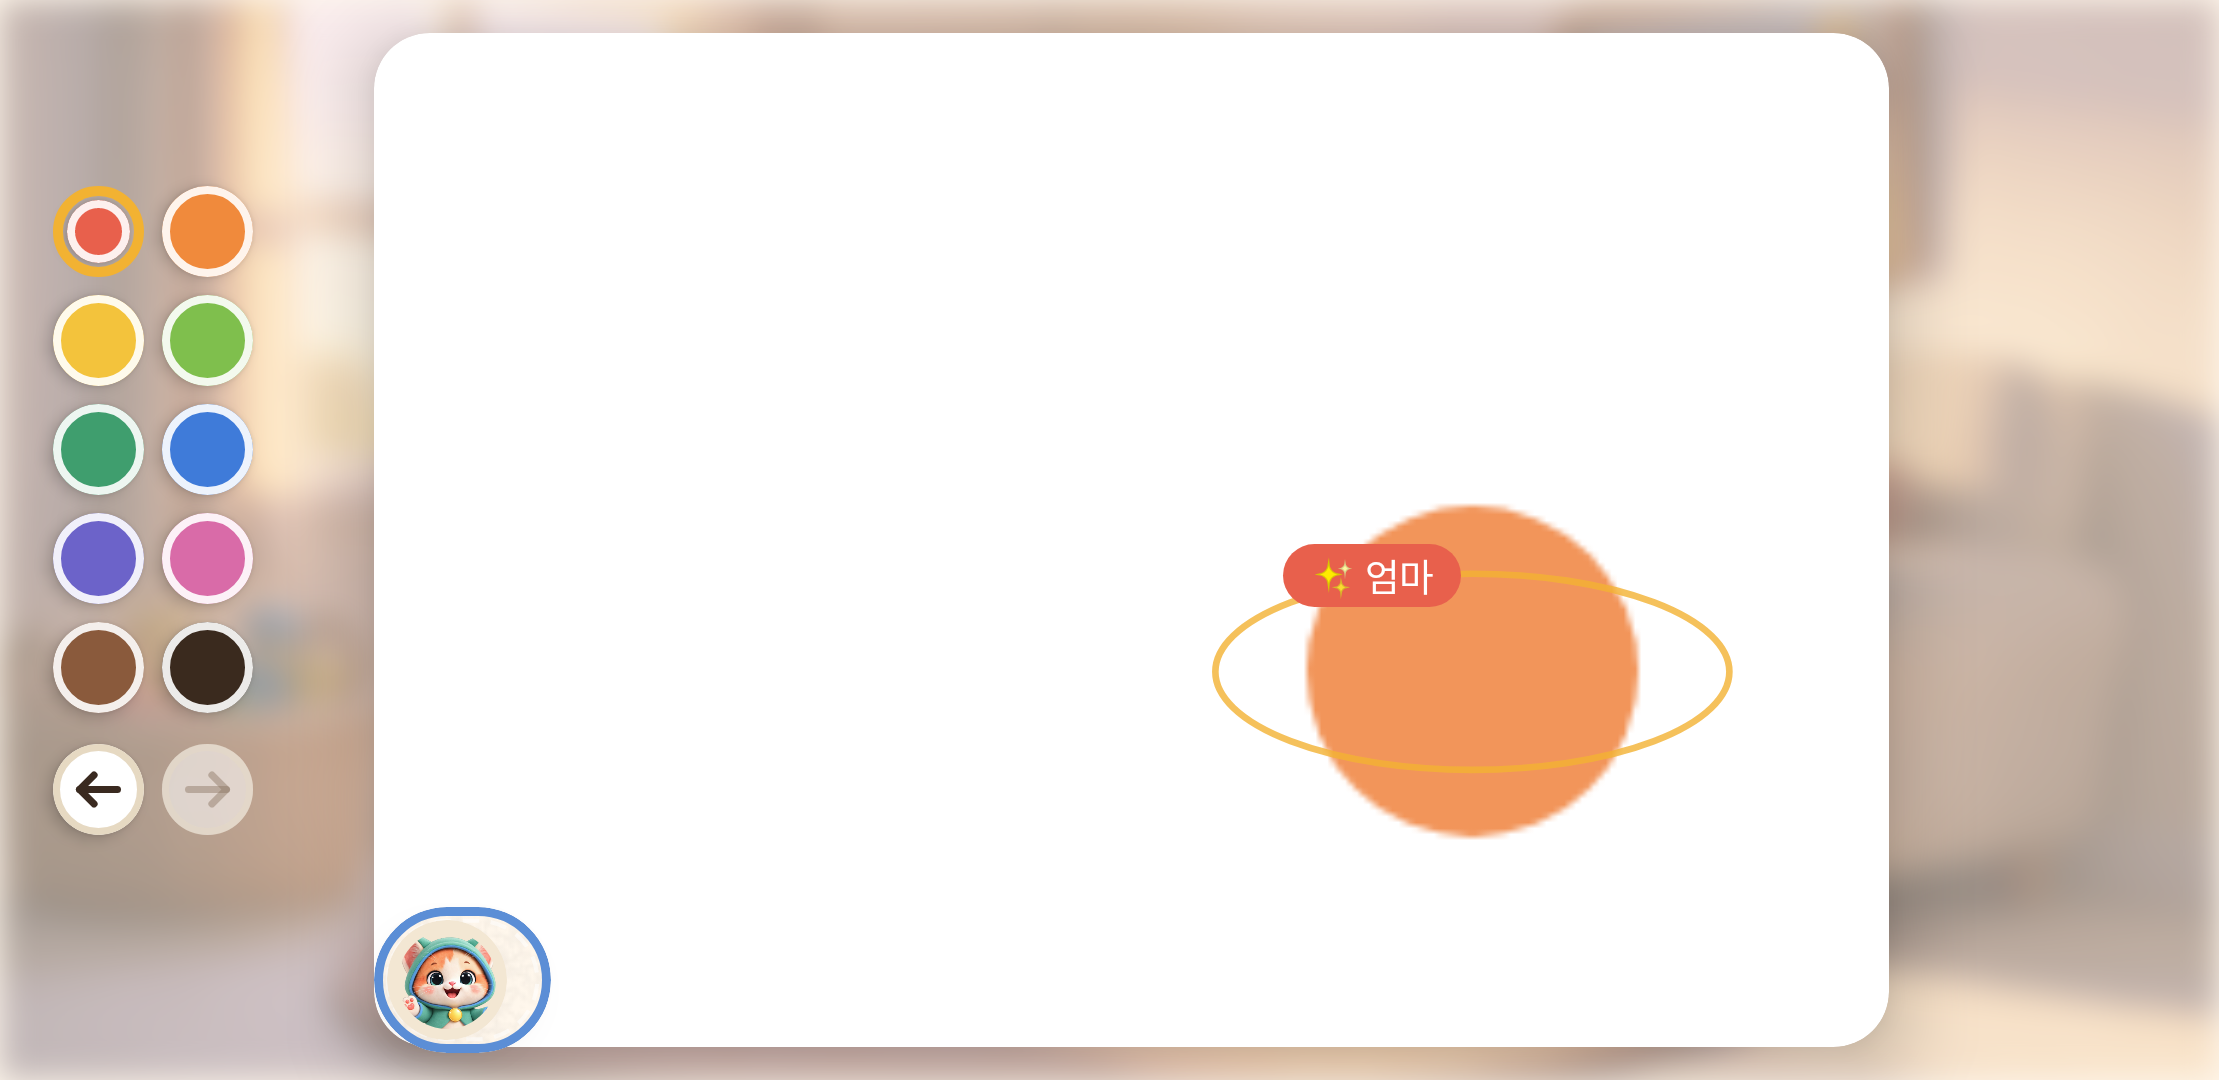
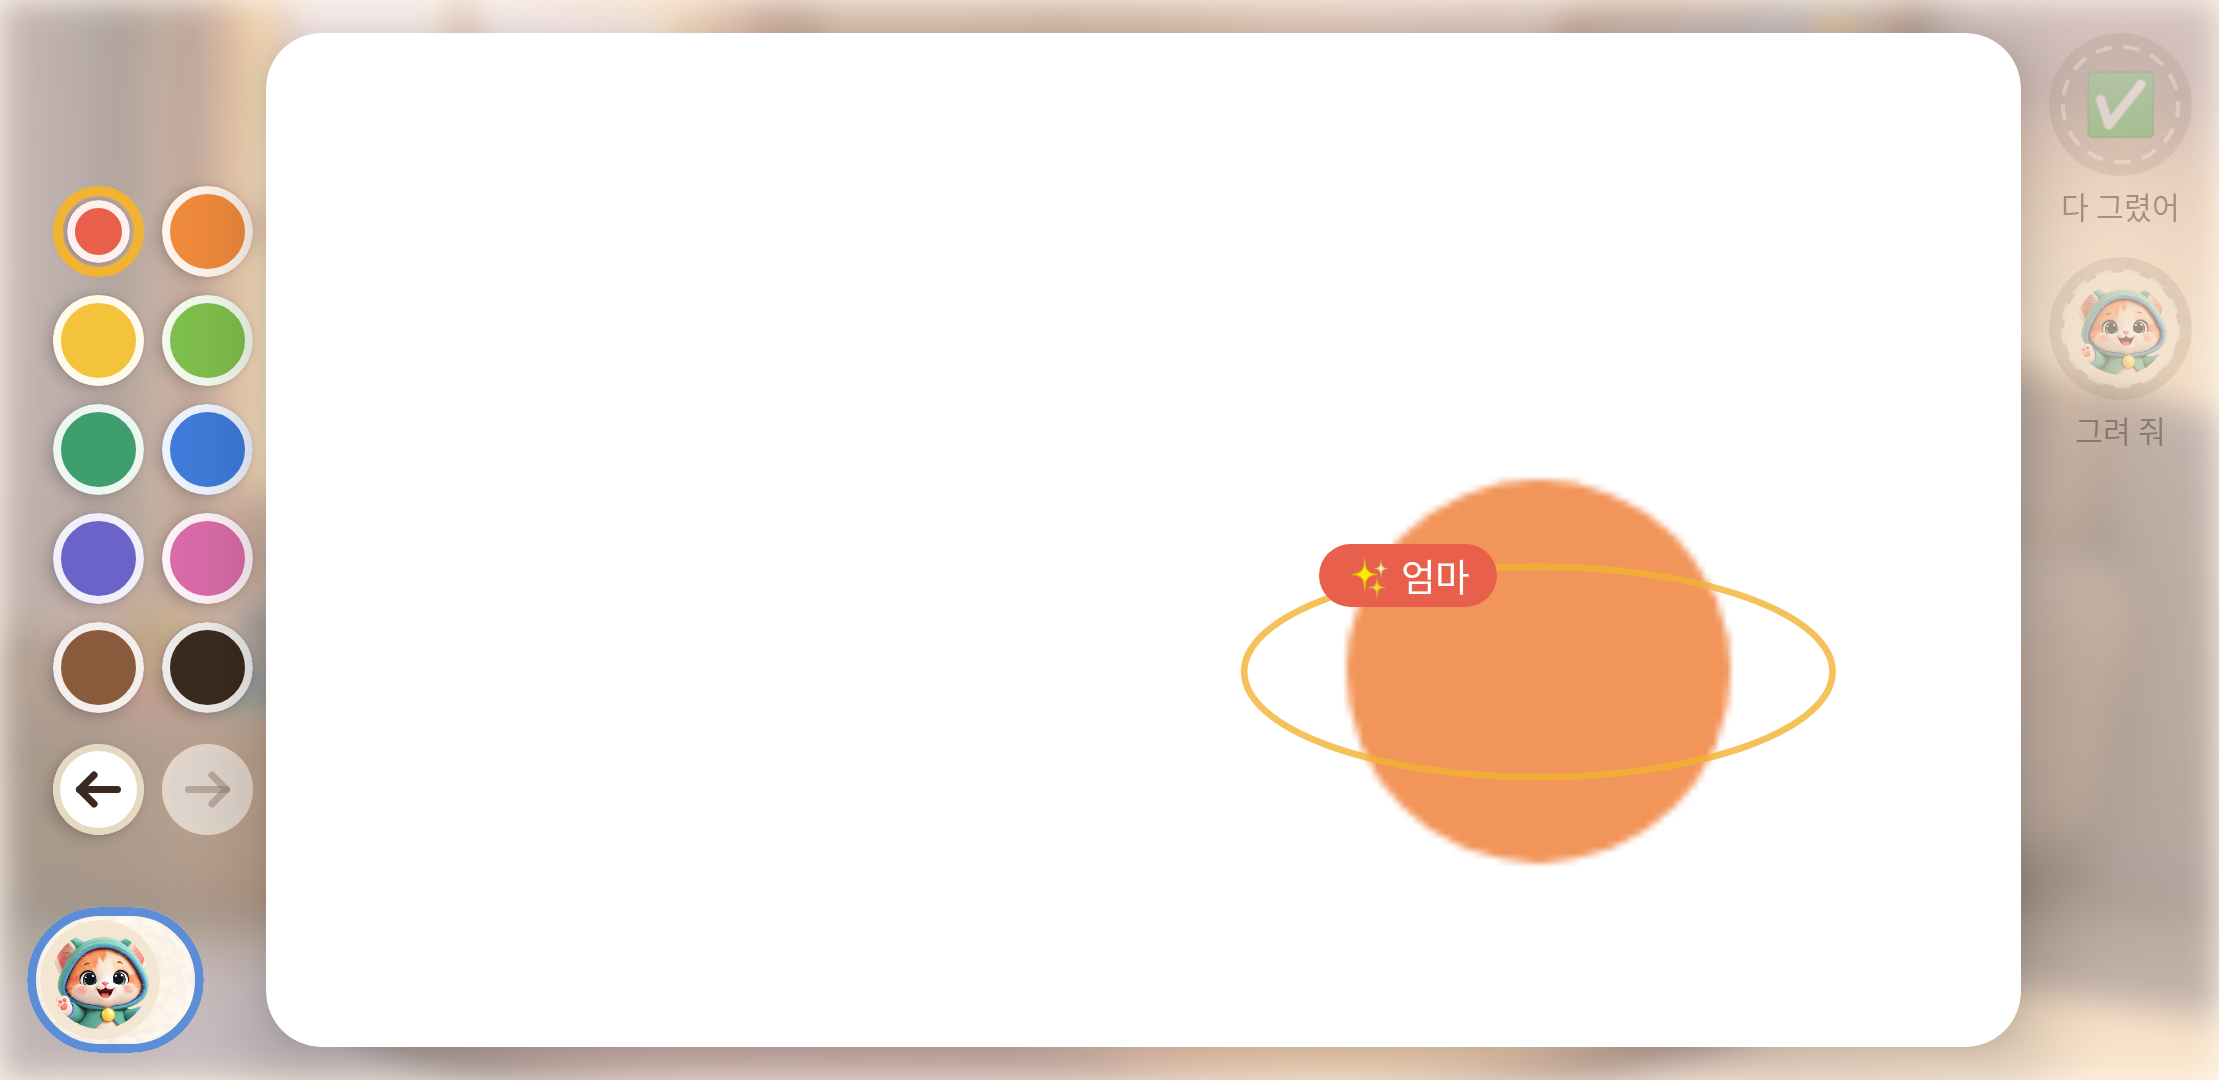
feat(diary): a narrow tool rail right of the board — ✅ done, Otto's face to ask Otto to draw (same as saying 「그려줘」) and a smaller 🎤 at the bottom — and Otto's bubble back at the left edge, clear of the undo/redo arrows even on 20:9 screens
Claude-Session: https://claude.ai/code/session_014T8D9DMqBWvFNzrUFjutEA

Changed region(s): [[0.5286, 0.0306, 0.995, 1.0], [0.0, 0.0306, 0.2488, 0.9778]]

diff --git a/android/app/src/main/java/com/example/finalproject_demo/demo/PictureDiary.kt b/android/app/src/main/java/com/example/finalproject_demo/demo/PictureDiary.kt
@@ -138,6 +138,11 @@ private suspend fun Director.drawWhileTalking(day: DiaryDay) = coroutineScope {
                     ?.let { showOttoDrawing(day, it) }
                 continue
             }
+            // 그림판 오른쪽 [그려 줘] — 「그려줘」라고 말한 것과 같다 (10-05 진웅)
+            r is Reply.Tapped && r.value == "drawme" -> {
+                if (drawMe(this, day, waiting, null)) offers++
+                continue
+            }
             // 이름표를 길게 — 이름을 다시 묻고 고친다 (10-02 진웅 — 잘못 들은 이름을 고칠 수 있어야 한다)
             r is Reply.Tapped && r.value.startsWith("rename:") -> {
                 day.pieces.firstOrNull { it.id == r.value.removePrefix("rename:").toIntOrNull() && it.name != null }
@@ -155,25 +160,7 @@ private suspend fun Director.drawWhileTalking(day: DiaryDay) = coroutineScope {
             r is Reply.Spoke -> {
                 when (heardWhileDrawing(day, r, askedPieces)) {
                     Heard.DONE -> break
-                    Heard.DRAW_ME -> {
-                        day.catchUp(s.drawing)
-                        // 「강아지 그려줘」면 강아지를 — 이름을 안 불렀으면 방금 누른 이름표(그 뒤로 새 획이 없을 때), 아니면 방금 그리던 조각 (10-02 실기기)
-                        val tapped = day.focus?.takeIf { it.second == s.drawing.size }?.let { (id, _) -> day.pieces.firstOrNull { it.id == id } }
-                        val target = day.namedIn(r.text, except = -1) ?: tapped
-                            ?: day.pieces.lastOrNull { s.drawing.lastOrNull() in it.strokes } ?: day.pieces.lastOrNull()
-                        val what = target?.name?.let { "${you(it)}${eul(you(it))} " }.orEmpty()
-                        when {
-                            target == null -> say("그림을 먼저 그려 줘! 그다음에 나도 그려 볼게.")
-                            waiting.any { it.pieceId == target.id } -> say("나도 지금 ${what}그리고 있어! 조금만 기다려 줘.")
-                            target.ottoPng != null -> say("벌써 ${what}그렸어! 반짝이는 이름표를 눌러 봐.")
-                            else -> {
-                                say("나도 ${what}그려볼게! 더 그리고 있어!")
-                                offers++
-                                waiting += orderOttoDrawing(this, target, target.name ?: "아이가 그린 그림")
-                                pause(600)
-                            }
-                        }
-                    }
+                    Heard.DRAW_ME -> if (drawMe(this, day, waiting, r.text)) offers++
                     Heard.NAMED -> {
                         // 묻지 않았는데 이름을 말했다 — 물어서 들은 이름처럼 「나도 그려볼까?」를 바로 (전에는 빠졌다 · 10-01 실기기)
                         val named = day.pieces.firstOrNull { s.drawing.lastOrNull() in it.strokes }?.takeIf { it.name != null }
@@ -469,6 +456,30 @@ private suspend fun Director.askPieceName(day: DiaryDay, piece: DiaryPiece): Pie
         return PieceAnswer(null)
     }
     return PieceAnswer(name)
+}
+
+/**
+ * 「그려줘」 — 말로(「강아지 그려줘」) 또는 그림판의 [그려 줘] 버튼으로. 오또가 그 조각을 뒤에서 그린다. 주문했으면 참.
+ * 부른 이름이 있으면 그 조각, 없으면 방금 누른 이름표(그 뒤로 새 획이 없을 때), 아니면 방금 그리던 조각 (10-02 실기기)
+ */
+private suspend fun Director.drawMe(scope: CoroutineScope, day: DiaryDay, waiting: MutableList<OttoOrder>, said: String?): Boolean {
+    day.catchUp(s.drawing)
+    val tapped = day.focus?.takeIf { it.second == s.drawing.size }?.let { (id, _) -> day.pieces.firstOrNull { it.id == id } }
+    val target = said?.let { day.namedIn(it, except = -1) } ?: tapped
+        ?: day.pieces.lastOrNull { s.drawing.lastOrNull() in it.strokes } ?: day.pieces.lastOrNull()
+    val what = target?.name?.let { "${you(it)}${eul(you(it))} " }.orEmpty()
+    when {
+        target == null -> say("그림을 먼저 그려 줘! 그다음에 나도 그려 볼게.")
+        waiting.any { it.pieceId == target.id } -> say("나도 지금 ${what}그리고 있어! 조금만 기다려 줘.")
+        target.ottoPng != null -> say("벌써 ${what}그렸어! 반짝이는 이름표를 눌러 봐.")
+        else -> {
+            say("나도 ${what}그려볼게! 더 그리고 있어!")
+            waiting += orderOttoDrawing(scope, target, target.name ?: "아이가 그린 그림")
+            pause(600)
+            return true
+        }
+    }
+    return false
 }
 
 /** 이름표를 길게 눌렀다 — 「이건 뭐야? 다시 말해 줘!」. 이름이 나오면 고치고, 아니면 그대로 둔다 */

diff --git a/android/app/src/main/java/com/example/finalproject_demo/ui/DiaryViews.kt b/android/app/src/main/java/com/example/finalproject_demo/ui/DiaryViews.kt
@@ -160,8 +160,13 @@ private val TopBarRight = 76.dp
 private val DiaryMicSize = 96.dp
 private val DiaryMicGap = 12.dp
 
-/** 그림판이 비켜 두는 오른쪽 띠 — 🎤 가 판을 가리지 않게 */
-private val DiaryMicRail = DiaryMicSize + DiaryMicGap * 2
+/**
+ * 그림판 오른쪽 좁은 도구 띠 — 위에서부터 [다 그렸어] · [그려 줘](오또 얼굴) · 🎤.
+ * 오른쪽 버튼들을 뺐던 까닭(판을 넓게)을 지키려고 띠는 좁게, 🎤 도 다른 화면(96dp)보다 작게 (10-05 진웅)
+ */
+private val BoardRail = 72.dp
+private val RailButtonSize = 52.dp
+private val RailMicSize = 64.dp
 
 /** 그림판 왼쪽 끝 — 크레용 두 줄 자리와 🏠 · 🔒 자리 중 넓은 쪽 */
 private fun boardStart(cq: Dp) = maxOf(cq * 12, TopBarRight)
@@ -179,10 +184,10 @@ fun DiaryStageView(d: Director, stage: DiaryStage) {
             DiaryGift -> DiaryGiftView(d, cq)
         }
         when (stage) {
-            // 말풍선은 그림판 왼쪽 아래 — 크레용 · ↶ ↷ 를 가리지 않게 판이 시작하는 자리부터 (#98)
+            // 말풍선은 화면 왼쪽 끝 — 🎤 를 품지 않아 낮아서 크레용 아래 ↶ ↷ 를 가리지 않는다 (10-05 진웅)
             is DiaryBoard -> {
-                DiaryBubble(d, cq, Modifier.align(Alignment.BottomStart).padding(start = boardStart(cq) - cq * 1.2f))
-                DiaryMic(d, Modifier.align(Alignment.BottomEnd))
+                DiaryBubble(d, cq, Modifier.align(Alignment.BottomStart))
+                BoardTools(d, stage, Modifier.align(Alignment.CenterEnd))
             }
             // 그림일기 한 장에는 대사 칸이 없다 — 오또가 묻는 동안(제목)만 작은 말풍선과 마이크
             is DiaryPaper -> if (d.s.micEnabled) {
@@ -338,7 +343,7 @@ private fun DiaryBoardView(d: Director, stage: DiaryBoard, cq: Dp) {
             }
         }
         BoxWithConstraints(
-            Modifier.padding(start = boardStart(cq), end = DiaryMicRail, top = cq * 1.5f, bottom = cq * 1.5f).fillMaxSize()
+            Modifier.padding(start = boardStart(cq), end = BoardRail, top = cq * 1.5f, bottom = cq * 1.5f).fillMaxSize()
                 .shadow(cq * 2, RoundedCornerShape(cq * 2.5f))
                 .background(Color.White, RoundedCornerShape(cq * 2.5f))
                 .clip(RoundedCornerShape(cq * 2.5f))
@@ -483,6 +488,40 @@ private fun DiaryBubble(d: Director, cq: Dp, modifier: Modifier) {
             Spacer(Modifier.width(cq * 1.2f))
             Text(text.take(shown), fontSize = (cq.value * 2.2f).sp, color = InkBrown, lineHeight = (cq.value * 2.9f).sp, modifier = Modifier.widthIn(max = cq * 52))
         }
+    }
+}
+
+/**
+ * 그림판 오른쪽 띠 — [다 그렸어](말로 「다 그렸어」와 같다) · [그려 줘](「그려줘」와 같다 · 방금 그린 조각이나 방금 누른 이름표) · 🎤(아래 고정).
+ * 오또가 말하는 중에는 눌러도 받을 곳이 없어 흐리게 둔다 — [다 그렸어]는 묻는 중에도 받는다
+ */
+@Composable
+private fun BoardTools(d: Director, stage: DiaryBoard, modifier: Modifier) {
+    val s = d.s
+    val day = s.diaryDay
+    val free = stage.pick == null
+    Column(
+        modifier.width(BoardRail).fillMaxHeight().padding(top = 12.dp, bottom = 12.dp),
+        horizontalAlignment = Alignment.CenterHorizontally,
+    ) {
+        RailButton("다 그렸어", enabled = free && (day.watching || s.micEnabled), tag = "rail-done", onClick = { d.send(Reply.Tapped("done", "다 그렸어")) }) {
+            Text("✅", fontSize = 22.sp)
+        }
+        Spacer(Modifier.height(10.dp))
+        RailButton("그려 줘", enabled = free && day.watching && s.drawing.isNotEmpty(), tag = "rail-drawme", onClick = { d.send(Reply.Tapped("drawme", "그려 줘")) }) {
+            OttoFace(OttoState.IDLE, Modifier.size(RailButtonSize * 0.8f))
+        }
+        Spacer(Modifier.weight(1f))
+        if (s.micEnabled) Box(Modifier.testTag("diary-mic")) { MicButton(d, size = RailMicSize) }
+    }
+}
+
+@Composable
+private fun RailButton(label: String, enabled: Boolean, tag: String, onClick: () -> Unit, icon: @Composable () -> Unit) {
+    Column(horizontalAlignment = Alignment.CenterHorizontally, modifier = Modifier.alpha(if (enabled) 1f else 0.4f).testTag(tag)) {
+        FeltButton(WoolCream, onClick = onClick, enabled = enabled, modifier = Modifier.size(RailButtonSize), shape = CircleShape) { icon() }
+        Spacer(Modifier.height(3.dp))
+        Text(label, fontSize = 11.sp, color = InkBrown, maxLines = 1)
     }
 }
 

diff --git a/android/app/src/test/java/com/example/finalproject_demo/DiaryViewsTest.kt b/android/app/src/test/java/com/example/finalproject_demo/DiaryViewsTest.kt
@@ -5,6 +5,8 @@ import androidx.compose.ui.test.assertIsNotEnabled
 import androidx.compose.ui.test.assertTextContains
 import androidx.compose.ui.test.click
 import androidx.compose.ui.test.getUnclippedBoundsInRoot
+import androidx.compose.ui.test.onChildren
+import androidx.compose.ui.test.onFirst
 import androidx.compose.ui.unit.dp
 import androidx.compose.foundation.background
 import androidx.compose.foundation.layout.Box
@@ -246,26 +248,49 @@ class DiaryViewsTest {
     }
 
     /**
-     * 그림판 자리 (#98 · #46) — 판은 앱 틀의 🏠 · 🔒(오른쪽 끝 128dp) 오른쪽에서 시작하고, 🎤 는 판 밖 오른쪽 아래에 고정된다.
-     * 말풍선은 판 쪽에 있어 크레용 아래 ↶ ↷ 를 가리지 않는다
+     * 그림판 자리 (#98 · #46 · 10-05 진웅) — 판은 앱 틀의 🏠(오른쪽 끝 68dp) 오른쪽에서 시작한다(일기 화면엔 🔒 가 없다).
+     * 오른쪽 좁은 띠에 [다 그렸어] · [그려 줘] · 🎤(아래). 말풍선은 화면 왼쪽 끝이고 크레용 아래 ↶ ↷ 를 가리지 않는다
      */
     @Test
-    fun theBoardLeavesRoomForTheTopButtonsAndTheMic() {
+    fun theBoardLeavesRoomForTheTopButtonsAndTheTools() = checkBoardLayout()
+
+    /** 20:9 처럼 가로로 긴 화면 — 크레용 칸이 아래 끝까지 내려와도 말풍선이 ↶ ↷ 를 가리지 않는다 (10-05 · 에뮬레이터에서 겹쳤다) */
+    @Test
+    @Config(qualifiers = "w891dp-h411dp-land-420dpi")
+    fun onAWideScreenTheBubbleStillClearsTheArrows() = checkBoardLayout()
+
+    private fun checkBoardLayout() {
         val d = director()
         d.s.newDiaryDay()
         d.s.stage = DiaryBoard()
-        d.say("우와, 지금 그리는 건 뭐야?")
+        d.say("우와, 지금 그리는 건 뭐야? 천천히 생각해서 말해 줘도 돼!")     // 두 줄이 되는 긴 말 — 가장 높은 말풍선
         d.inputs(mic = true, next = false)
         show(d)
         val board = compose.onNodeWithTag("diary-board").getUnclippedBoundsInRoot()
         val mic = compose.onNodeWithTag("diary-mic").getUnclippedBoundsInRoot()
+        val done = compose.onNodeWithTag("rail-done").getUnclippedBoundsInRoot()
         val bubble = compose.onNodeWithTag("diary-bubble").getUnclippedBoundsInRoot()
         val undo = compose.onNodeWithTag("stroke-undo").getUnclippedBoundsInRoot()
-        assertTrue("🔒 가 판 위에 얹힌다 — 판 왼쪽 ${board.left}", board.left >= 128.dp)
-        assertTrue("🎤 가 판을 가린다 — 판 오른쪽 ${board.right} · 🎤 왼쪽 ${mic.left}", mic.left >= board.right)
         val root = compose.onRoot().getUnclippedBoundsInRoot()
+        assertTrue("🏠 가 판 위에 얹힌다 — 판 왼쪽 ${board.left}", board.left >= 68.dp)
+        assertTrue("도구 띠가 판을 가린다", mic.left >= board.right && done.left >= board.right)
+        assertTrue("도구 띠가 넓다 — ${root.right - board.right}", root.right - board.right <= 80.dp)
         assertTrue("🎤 가 오른쪽 아래가 아니다", root.right - mic.right < 24.dp && root.bottom - mic.bottom < 24.dp)
-        assertTrue("말풍선이 ↶ 를 가린다", bubble.left >= undo.right || bubble.top >= undo.bottom)
+        assertTrue("말풍선이 화면 왼쪽 끝이 아니다 — ${bubble.left}", bubble.left < 24.dp)
+        assertTrue("말풍선이 ↶ 를 가린다 — 말풍선 위 ${bubble.top} · ↶ 아래 ${undo.bottom}", bubble.top >= undo.bottom)
+    }
+
+    /** 오른쪽 띠 [다 그렸어] · [그려 줘] — 말로 「다 그렸어」 · 「그려줘」와 같은 신호. 지켜보는 중에만 [그려 줘]를 받는다 */
+    @Test
+    fun theRailButtonsSendDoneAndDrawMe() {
+        val d = director()
+        d.s.newDiaryDay().watching = true
+        d.s.drawing += Stroke(Color.Red, listOf(Offset(.1f, .3f), Offset(.2f, .6f)))
+        d.s.stage = DiaryBoard()
+        d.inputs(mic = true, next = false)
+        show(d)
+        assertEquals("drawme", (d.replyTo { compose.onNodeWithTag("rail-drawme").onChildren().onFirst().performClick() } as? Reply.Tapped)?.value)
+        assertEquals("done", (d.replyTo { compose.onNodeWithTag("rail-done").onChildren().onFirst().performClick() } as? Reply.Tapped)?.value)
     }
 
     /** 천천히 긋는 둘째 획 — 앞 획 뒤 1.6초가 지나도 손가락이 판에 있으면 묻지 않는다. 손을 떼고 조용하면 묻는다 */

diff --git a/android/app/src/test/java/com/example/finalproject_demo/PictureDiaryFlowTest.kt b/android/app/src/test/java/com/example/finalproject_demo/PictureDiaryFlowTest.kt
@@ -400,6 +400,23 @@ class PictureDiaryFlowTest {
         d.tell("그려줘") { s.line == "나도 강아지를 그려볼게! 더 그리고 있어!" }
     }
 
+    /** 그림판 오른쪽 [그려 줘] — 「그려줘」라고 말한 것과 같다. 방금 그린 조각을 오또가 그린다 (10-05 진웅) */
+    @Test
+    fun theDrawMeButtonOrdersOttosDrawingOfTheLastPiece() = run { d ->
+        val s = d.s
+        d.go(Scene.DIARY)
+        assertTrue(d.push("그릴래"))
+        s.drawing += stroke(0.1f)
+        assertTrue(d.push("붓이 멈춤"))
+        assertTrue(await { s.line == "우와, 지금 그리는 건 뭐야?" } != null)
+        d.speak("강아지")
+        assertTrue(await { s.line == "나도 강아지를 그려볼까?" } != null)
+        assertTrue(d.push("아니"))
+        assertTrue(await { s.diaryDay.watching } != null)
+        d.send(Reply.Tapped("drawme", "그려 줘"))
+        assertTrue("[그려 줘]에 그리지 않았다 — 말=${s.line}", await { s.line == "나도 강아지를 그려볼게! 더 그리고 있어!" } != null)
+    }
+
     /** 「강아지 그려줘」 — 마지막에 그린 조각이 아니라 부른 조각을. 이미 그리는 중이면 다시 주문하지 않고 그렇다고 말한다 (프로토타입) */
     @Test
     fun drawMeAimsAtThePieceTheChildNames() = run { d ->
